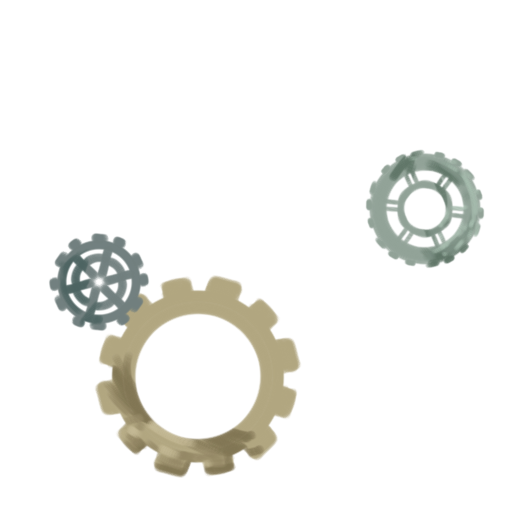
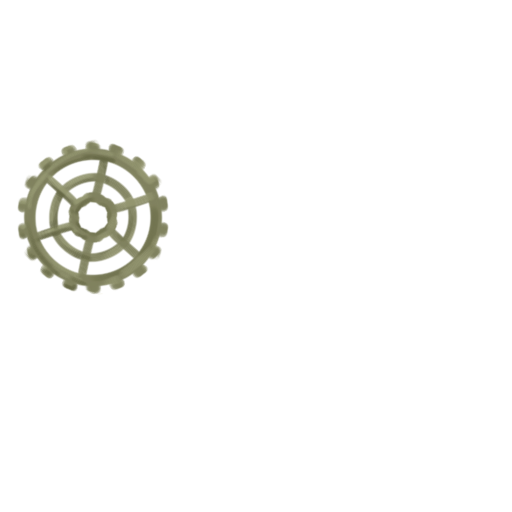
昼夜齿轮旋转

Changed region(s): [[0.0312, 0.25, 0.5938, 0.9375], [0.7188, 0.2812, 0.9688, 0.5312]]

diff --git a/src/main/java/demoMod/twin/ui/DaylightCyclePanel.java b/src/main/java/demoMod/twin/ui/DaylightCyclePanel.java
@@ -18,8 +18,7 @@ public class DaylightCyclePanel {
     private static Texture day;
     private static Texture night;
     private static Texture ring;
-    private static Texture gear1;
-    private static Texture gear2;
+    private static final Gear[] gears = new Gear[10];
 
     private static float angle;
     public static float targetAngle;
@@ -31,8 +30,16 @@ public class DaylightCyclePanel {
         day = new Texture(TwinElementalMod.getResourcePath("vfx/daylightCycle/day.png"));
         night = new Texture(TwinElementalMod.getResourcePath("vfx/daylightCycle/night.png"));
         ring = new Texture(TwinElementalMod.getResourcePath("vfx/daylightCycle/ring.png"));
-        gear1 = new Texture(TwinElementalMod.getResourcePath("vfx/daylightCycle/gear1.png"));
-        gear2 = new Texture(TwinElementalMod.getResourcePath("vfx/daylightCycle/gear2.png"));
+        gears[0] = new Gear(10, 425, 209, 1);
+        gears[1] = new Gear(9, 99, 281, -1);
+        gears[2] = new Gear(8, 198, 376, 1.5f);
+        gears[3] = new Gear(7, 407, 305, -1.5f);
+        gears[4] = new Gear(6, 333, 174, 0.6f);
+        gears[5] = new Gear(5, 334, 413, -1.5f);
+        gears[6] = new Gear(4, 122, 395, 2);
+        gears[7] = new Gear(3, 100, 329, 1.5f);
+        gears[8] = new Gear(2, 93, 217, -1);
+        gears[9] = new Gear(1, 155, 102, 3);
         color = Color.WHITE.cpy();
     }
 
@@ -50,27 +57,9 @@ public class DaylightCyclePanel {
         }
         color.a = 1.0F;
         sb.setColor(color);
-        sb.draw(bg, Settings.WIDTH / 2.0F - bg.getWidth() / 2.0F, Settings.HEIGHT * 0.75F - bg.getHeight() / 2.0F,
-                bg.getWidth() / 2.0F, bg.getHeight() / 2.0F,
-                bg.getWidth(), bg.getHeight(),
-                Settings.scale, Settings.scale,
-                0, 0, 0,
-                bg.getWidth(), bg.getHeight(),
-                false, false);
-        sb.draw(gear2, Settings.WIDTH / 2.0F - bg.getWidth() / 2.0F, Settings.HEIGHT * 0.75F - bg.getHeight() / 2.0F,
-                bg.getWidth() / 2.0F, bg.getHeight() / 2.0F,
-                bg.getWidth(), bg.getHeight(),
-                Settings.scale, Settings.scale,
-                0, 0, 0,
-                bg.getWidth(), bg.getHeight(),
-                false, false);
-        sb.draw(gear1, Settings.WIDTH / 2.0F - bg.getWidth() / 2.0F, Settings.HEIGHT * 0.75F - bg.getHeight() / 2.0F,
-                bg.getWidth() / 2.0F, bg.getHeight() / 2.0F,
-                bg.getWidth(), bg.getHeight(),
-                Settings.scale, Settings.scale,
-                0, 0, 0,
-                bg.getWidth(), bg.getHeight(),
-                false, false);
+        for (Gear gear : gears) {
+            gear.render(sb);
+        }
         sb.draw(ring, Settings.WIDTH / 2.0F - bg.getWidth() / 2.0F, Settings.HEIGHT * 0.75F - bg.getHeight() / 2.0F,
                 bg.getWidth() / 2.0F, bg.getHeight() / 2.0F,
                 bg.getWidth(), bg.getHeight(),
@@ -101,6 +90,13 @@ public class DaylightCyclePanel {
         sb.setBlendFunction(770, 771);
         color.a = 1.0F;
         sb.setColor(color);
+        sb.draw(bg, Settings.WIDTH / 2.0F - bg.getWidth() / 2.0F, Settings.HEIGHT * 0.75F - bg.getHeight() / 2.0F,
+                bg.getWidth() / 2.0F, bg.getHeight() / 2.0F,
+                bg.getWidth(), bg.getHeight(),
+                Settings.scale, Settings.scale,
+                0, 0, 0,
+                bg.getWidth(), bg.getHeight(),
+                false, false);
         sb.draw(hand, Settings.WIDTH / 2.0F - bg.getWidth() / 2.0F, Settings.HEIGHT * 0.75F - bg.getHeight() / 2.0F,
                 bg.getWidth() / 2.0F, bg.getHeight() / 2.0F,
                 bg.getWidth(), bg.getHeight(),
@@ -108,5 +104,32 @@ public class DaylightCyclePanel {
                 angle, 0, 0,
                 bg.getWidth(), bg.getHeight(),
                 false, false);
+    }
+
+    static class Gear {
+        private final Texture img;
+        private final float centerX;
+        private final float centerY;
+        private final float speed;
+
+        public Gear(int imgIndex, float centerX, float centerY, float speed) {
+            this.img = new Texture(TwinElementalMod.getResourcePath(String.format("vfx/daylightCycle/gear%d.png", imgIndex)));
+            this.centerX = centerX;
+            this.centerY = img.getHeight() - centerY;
+            this.speed = speed;
+        }
+
+        public void render(SpriteBatch sb) {
+            sb.draw(img,
+                    Settings.WIDTH / 2.0F - (img.getWidth() / 2f - centerX) * Settings.scale - centerX,
+                    Settings.HEIGHT * 0.75F - (img.getHeight() / 2f - centerY) * Settings.scale - centerY,
+                    centerX, centerY,
+                    img.getWidth(), img.getHeight(),
+                    Settings.scale, Settings.scale,
+                    angle * speed,
+                    0, 0,
+                    img.getWidth(), img.getHeight(),
+                    false, false);
+        }
     }
 }
